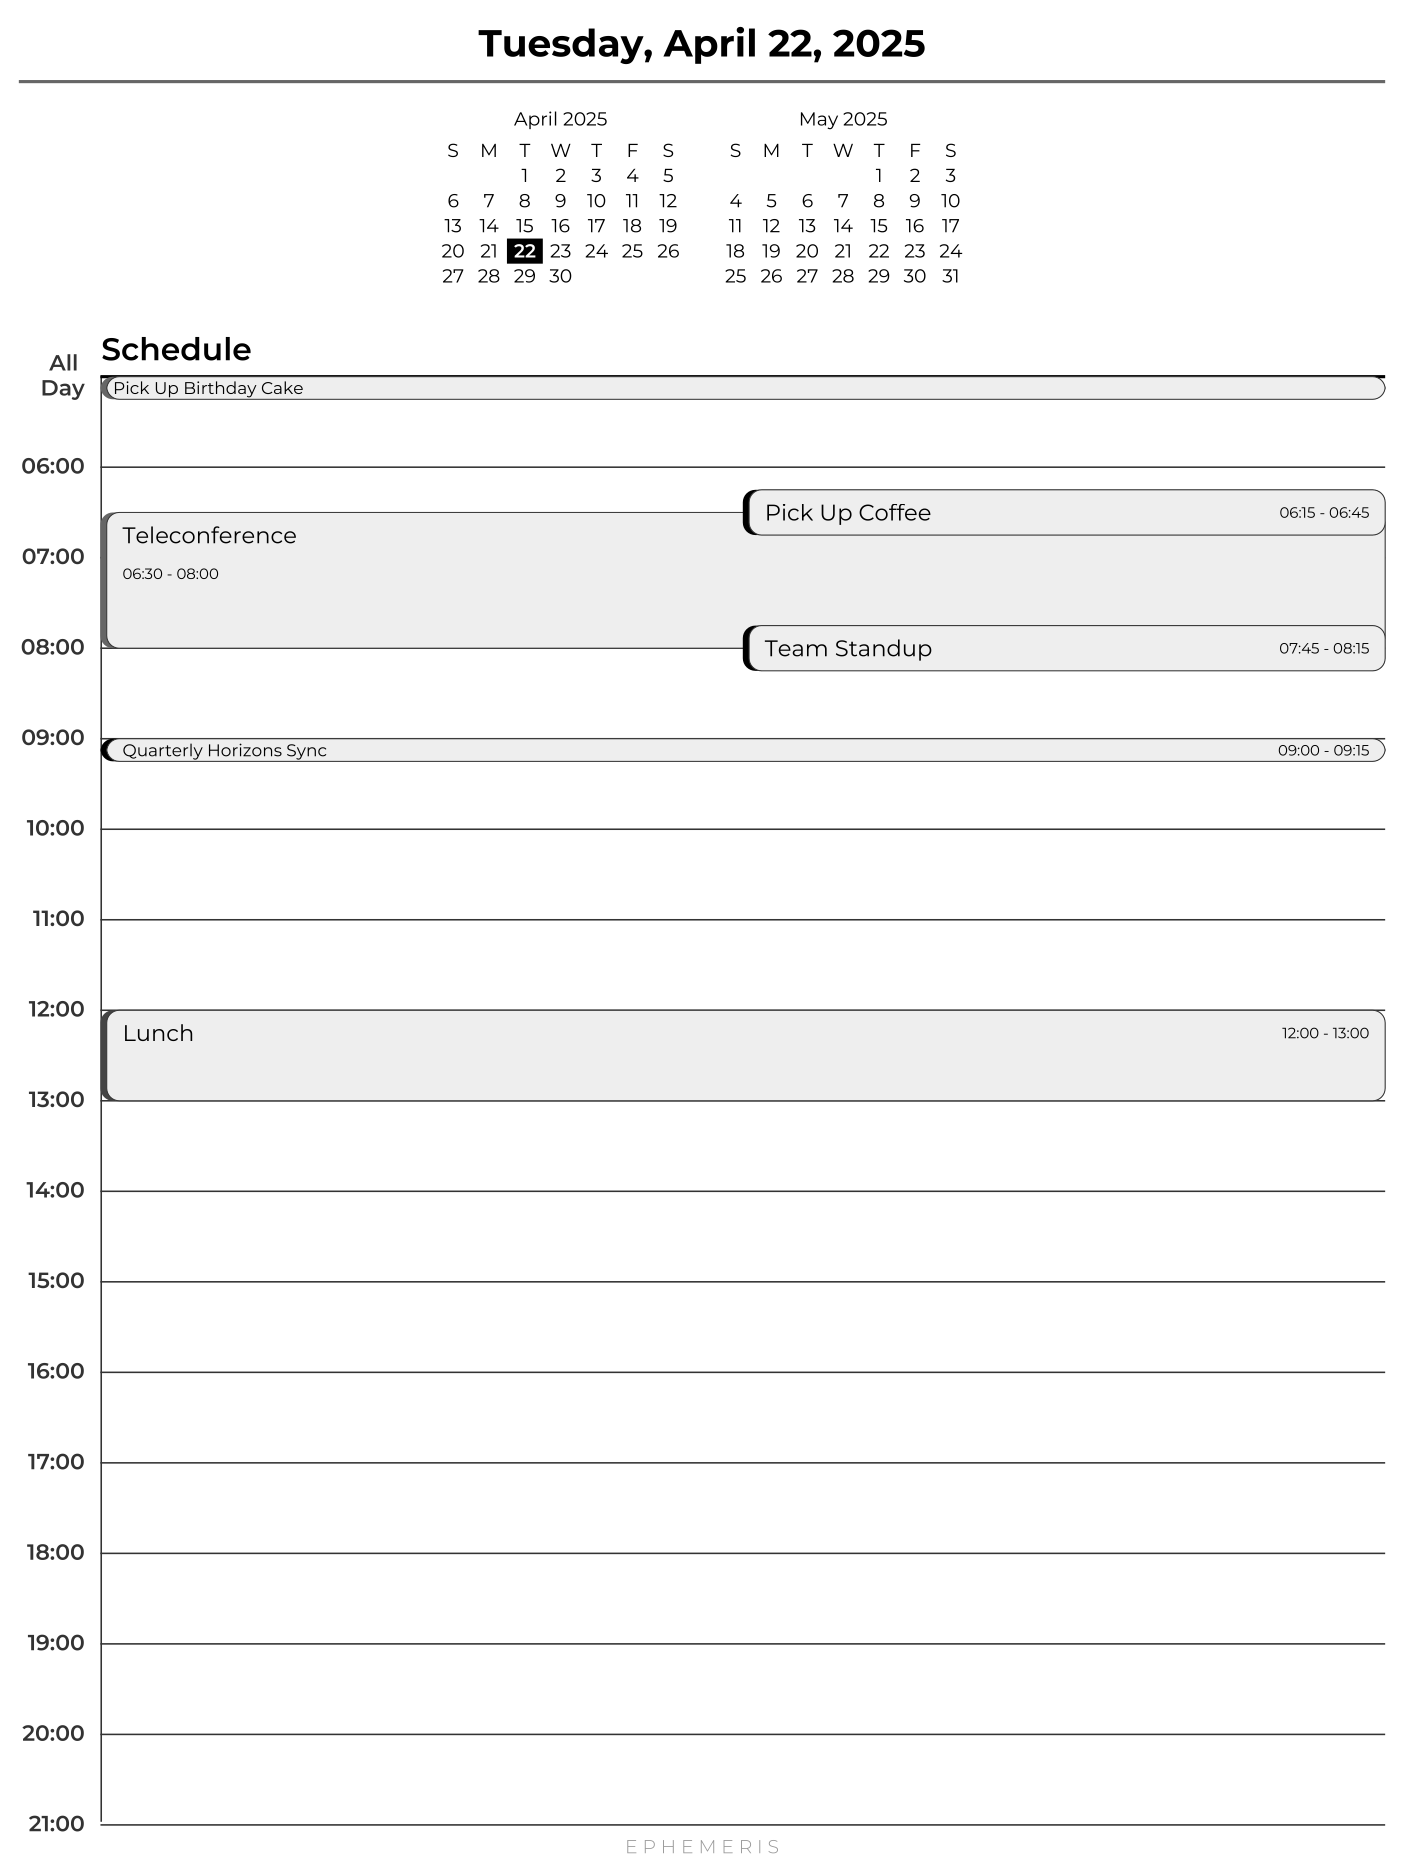
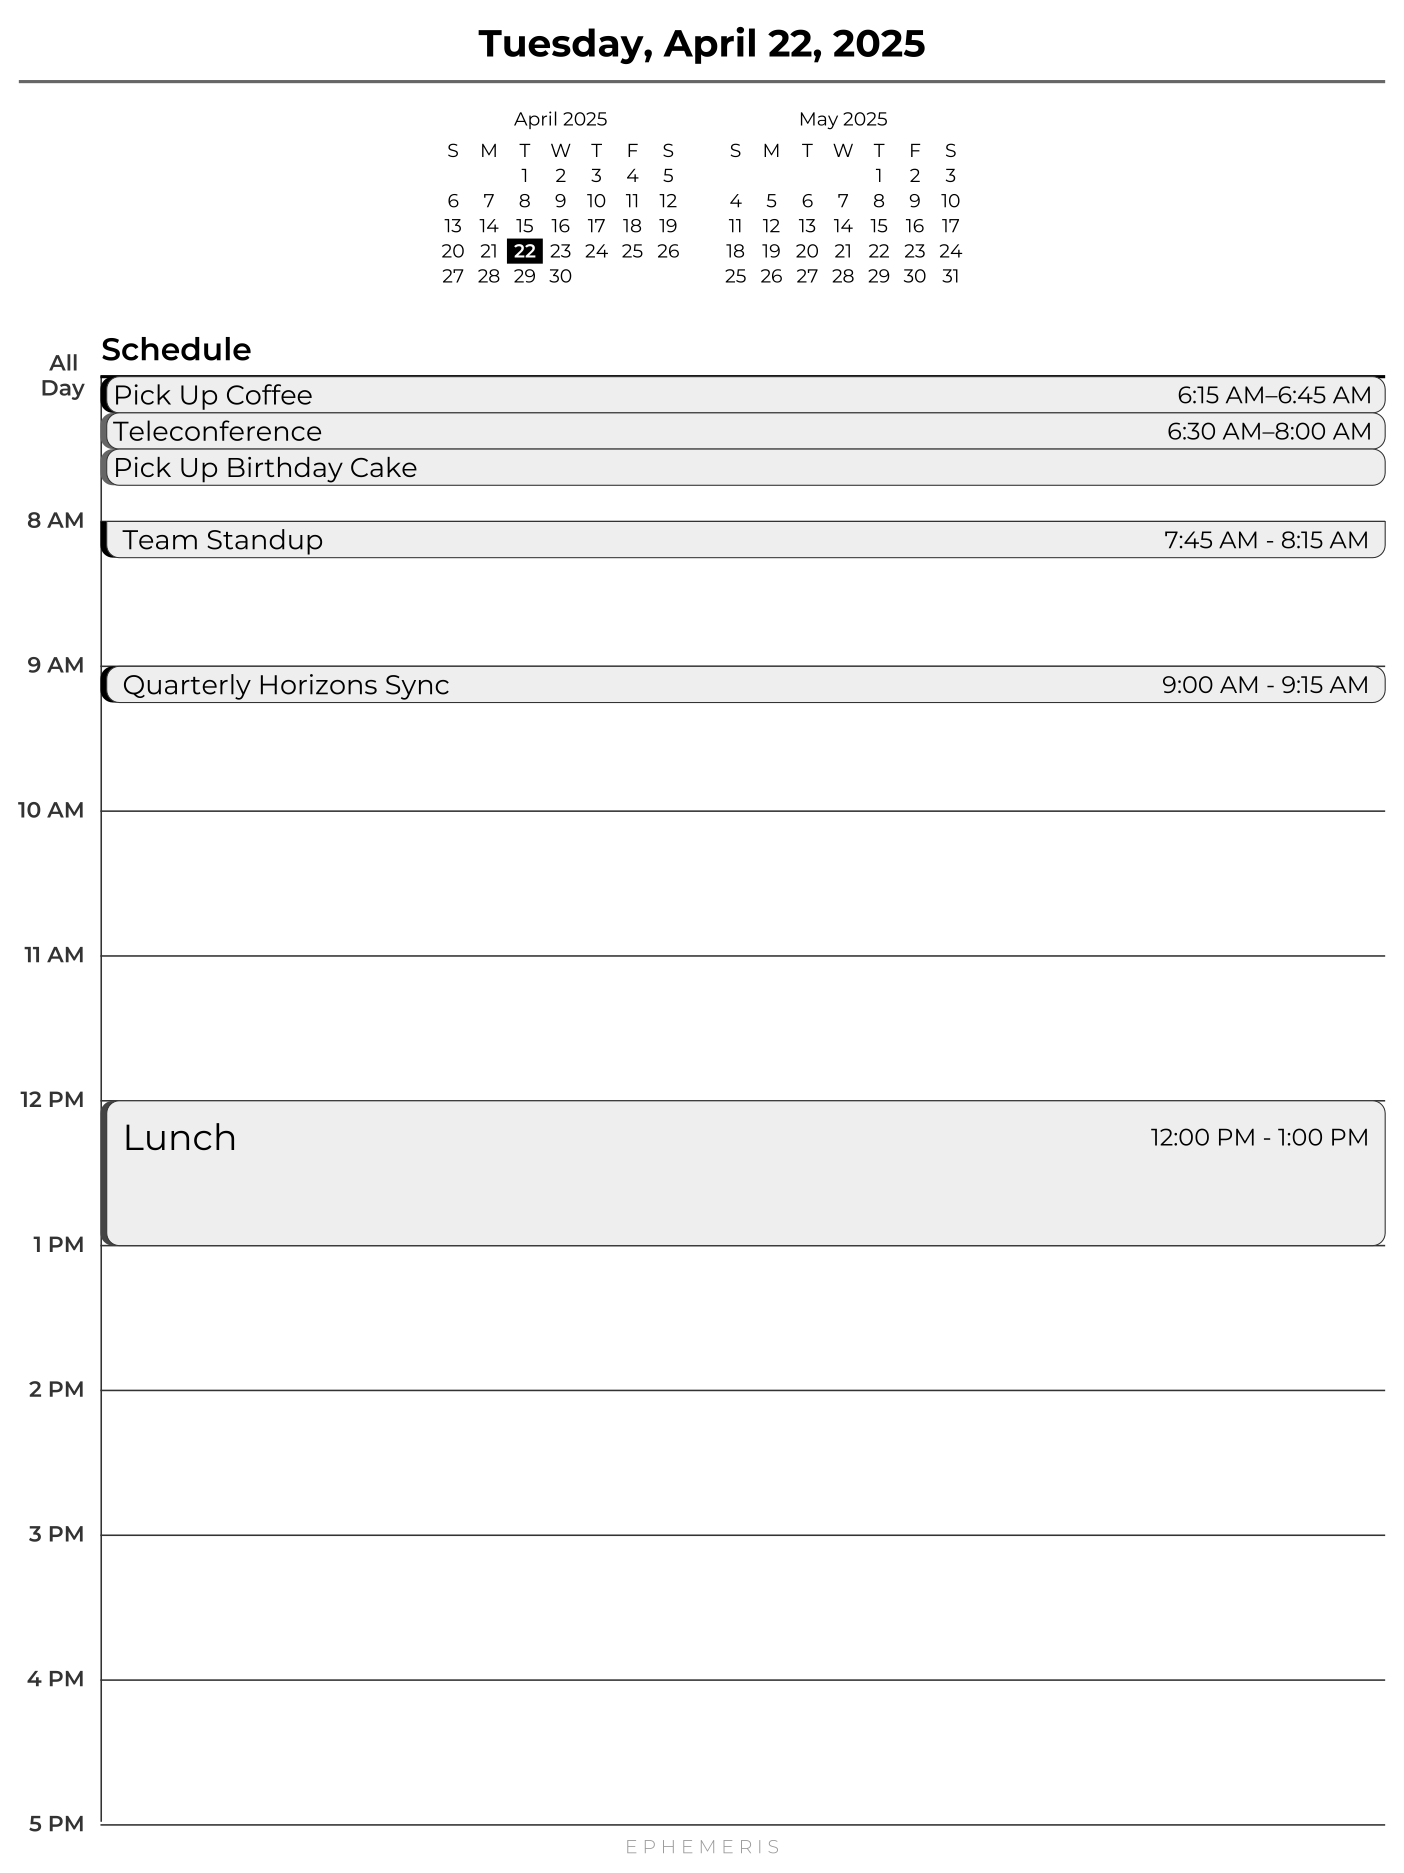
fix: display bug when all-day is in-grid

diff --git a/ephemeris/renderers.py b/ephemeris/renderers.py
@@ -513,8 +513,11 @@ def render_schedule_pdf(
 
         box_x = layout["grid_right"] - box_width  # right-align
 
-        breached_top    = (y_start_raw > layout["grid_top"])
-        breached_bottom = (y_end_raw   < layout["grid_bottom"])
+        # breached_top    = (y_start_raw > layout["grid_top"])
+        # breached_bottom = (y_end_raw   < layout["grid_bottom"])
+        breached_top    = (event["start"] < grid_start_dt)
+        breached_bottom = (event["end"]   > grid_end_dt)
+
 
         # clamp to grid bounds
         clamped_y_start = min(y_start, layout["grid_top"])
